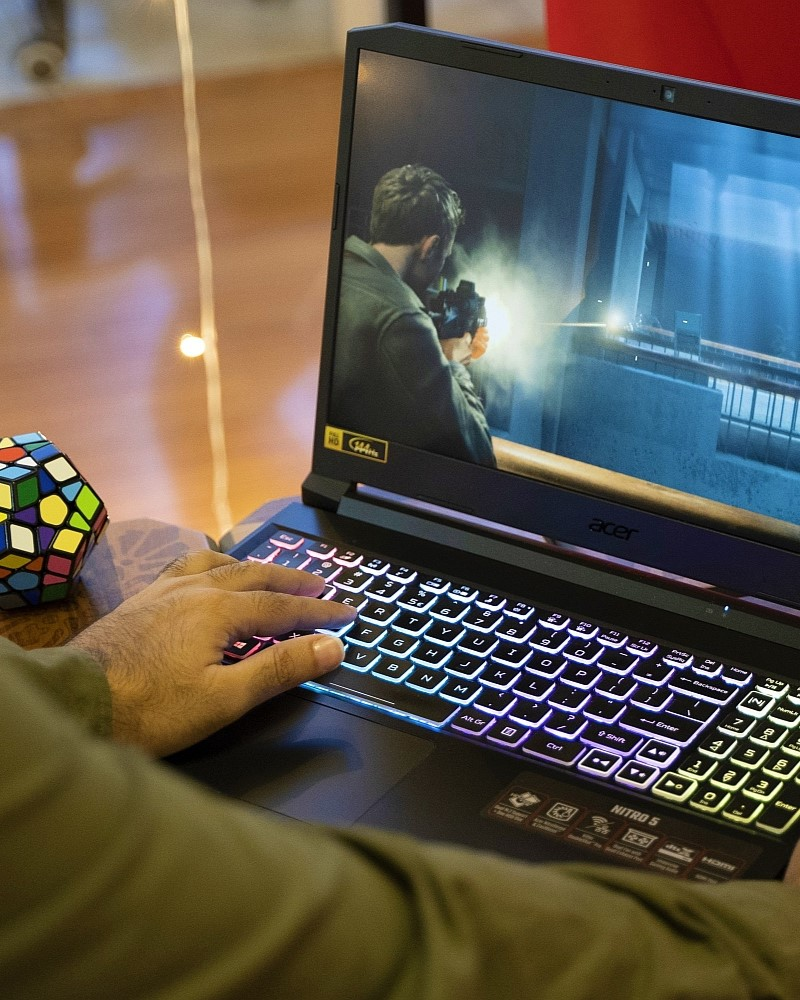
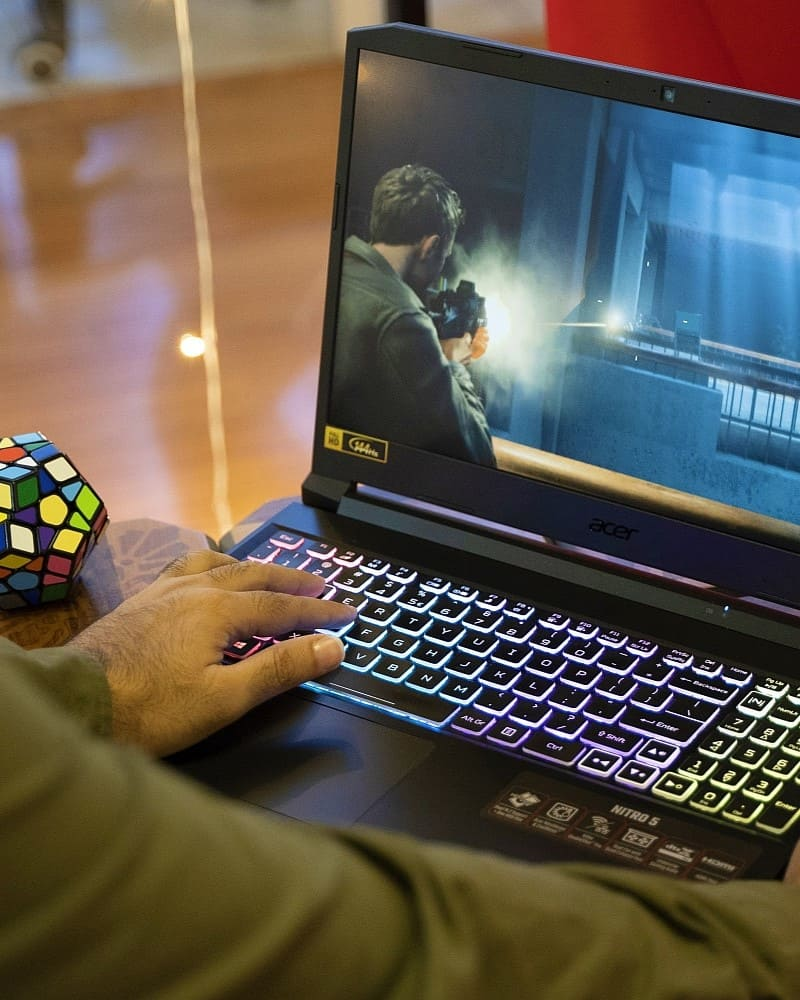
Se realizaron modificaciones en el index y se comprimieron las imagenes

diff --git a/index.html b/index.html
@@ -41,7 +41,16 @@
         </nav>
 
         <section class="primer_contenido">
-            <img src="./img/Nitro_Wallpaper_5000x2813.jpg" alt="Inicio">
+            <div class="imagen_principal_fondo">
+                <div class="contenido_header">
+                    <div class="titulo_principal" data-aos="fade-up" data-aos-duration="1000">
+                        <h1>Acer Nitro 5: </h1>
+                        <h2>Potencia sin límites.</h2>
+                        <p>Descubre el rendimiento excepcional y la experiencia de juego inmersiva que solo la Nitro 5 puede ofrecerte. ¡Domina tus desafíos con estilo! 🎮💥</p>
+                    </div>
+                    <img src="./img/Acer_Nitro_5.png" alt="laptop_acer_nitro_5" class="imagen_laptop" data-aos="fade-up" data-aos-duration="1000" data-aos-delay="100">
+                </div>
+            </div>
         </section>
     </header>
 
@@ -49,19 +58,19 @@
     <main>
         <!-- Productos nuevos -->
         <section class="novedades" >
-            <div class="contenido_tarjeta tarjeta_1" data-aos="fade-up" data-aos-duration="1000">
+            <div class="contenido_tarjeta tarjeta_1" data-aos-delay="700" data-aos="fade-up" data-aos-duration="1000" >
                 <article class="tarjeta">
                     <h2><span>Procesadores</span></h2>
                     <p>Con procesadores Intel Core i5 e i7 que son una familia de procesadores de computadora que ofrecen un rendimiento sólido y confiable para una amplia variedad de tareas.</p>
                 </article>
             </div>
-            <div class="contenido_tarjeta tarjeta_2" data-aos="fade-up" data-aos-duration="1500"">
+            <div class="contenido_tarjeta tarjeta_2" data-aos-delay="700" data-aos="fade-up" data-aos-duration="1500"">
                 <article class="tarjeta">
                     <h2><span>Graficos</span></h2>
                     <p>Las tarjetas gráficas NVIDIA RTX son una familia de tarjetas gráficas de alta gama que ofrecen un rendimiento excepcional para juegos y aplicaciones de productividad.</p>
                 </article>
             </div>
-            <div class="contenido_tarjeta tarjeta_3" data-aos="fade-up" data-aos-duration="2000"">
+            <div class="contenido_tarjeta tarjeta_3" data-aos-delay="700" data-aos="fade-up" data-aos-duration="2000"">
                 <article class="tarjeta">
                     <h2><span>Rendimiento</span></h2>
                     <p>Un rendimiento excepcional y una calidad de imagen impresionante en su ordenador, pantallas de alta resolución con una alta frecuencia de actualización, teclados retroiluminados, refrigeración avanzada, y mucho más!!..</p>
@@ -72,7 +81,7 @@
         <!-- Articulo principal -->
         <section class="articulo_principal">
             <img src="./img/Acer-Logo.png" alt="Imagen_de_referencia" data-aos="fade-right" data-aos-duration="1500"">
-            <article data-aos="fade-left" data-aos-duration="1500"">
+            <article data-aos="fade-up" data-aos-duration="1500"">
                 <h2>La marca líder en tecnología para trabajar, jugar y crear.</h2>
                 <p>Acer, la marca líder en tecnología, te ofrece la mejor experiencia en informática con sus productos de alta calidad y rendimiento. Desde laptops y computadoras de escritorio hasta monitores y accesorios, Acer tiene todo lo que necesitas para trabajar, jugar y crear. Con su innovadora tecnología y su compromiso con la excelencia, Acer es la elección perfecta para cualquier persona que busque lo mejor en informática. Descubre todo lo que Acer tiene para ofrecer y lleva tu experiencia informática al siguiente nivel.</p>
             </article>

diff --git a/scss/partials/_fondos.scss b/scss/partials/_fondos.scss
@@ -1,24 +1,14 @@
 $imagen_modelos:url(https://www.cnet.com/a/img/resize/8b4fabbc630942152fcff6e299f97e7197d70569/hub/2020/01/28/5284e5a2-1519-4d09-a07e-d50b317c954e/01-acer-nitro-5-an517-51-56yw.jpg?auto=webp&fit=crop&height=675&width=1200);
 $imagen_nosotros:url(https://upload.wikimedia.org/wikipedia/commons/4/47/Acer_Building_in_Oriental_Science_Park_right-front.jpg);
 $imagen_especificaciones:url(https://i.pinimg.com/564x/01/7b/97/017b97779f7e8ede3b8da9c8ec9e28ac.jpg);
+$fondo_nosotros:url(https://images.unsplash.com/photo-1477959858617-67f85cf4f1df?q=80&w=1000&auto=format&fit=crop&ixlib=rb-4.0.3&ixid=M3wxMjA3fDB8MHxleHBsb3JlLWZlZWR8MXx8fGVufDB8fHx8fA%3D%3D);
 $fondo_especificaciones:url(../img/acer-predator-abstract-uhdpaper.com-4K-33.jpg);
 $fondo_susbscribete:url(../img/colorful-dark-abstract-polygon-3d-4k-39.jpg);
-$fondo_nosotros:url(https://images.unsplash.com/photo-1477959858617-67f85cf4f1df?q=80&w=1000&auto=format&fit=crop&ixlib=rb-4.0.3&ixid=M3wxMjA3fDB8MHxleHBsb3JlLWZlZWR8MXx8fGVufDB8fHx8fA%3D%3D);
-
-// $fondo_tarjeta: (
-
-//     url(../../img/card_images/intel.jpg),
-//     url(../../img/card_images/nvidia.jpg), 
-//     url(../../img/card_images/Acer_Nitro_5_lead.jpg)
-
-// );
+$fondo_header:url(../../img/black-red-abstract-polygon-3d-4k-45.jpg);
+$imagen_laptop:url(../../img/Acer_Nitro_5.png);
 
 $fondo_tarjeta: (
-
-    url(./intel.jpg),
-    url(./nvidia.jpg), 
-    url(./Acer_Nitro_5_lead.jpg)
-
+    url(../../img/card_images/intel.jpg),
+    url(../../img/card_images/nvidia.jpg), 
+    url(../../img/card_images/Acer_Nitro_5_lead.jpg)
 );
-
-

diff --git a/scss/styles.scss b/scss/styles.scss
@@ -114,14 +114,58 @@ header {
 }
 
 /* Sección principal */
-.primer_contenido img {
-    margin-top: 50px;
+
+.primer_contenido {
     width: 100%;
     height: 70vh;
-    background-position: center;
-    background-repeat: no-repeat;
-    background-size: cover;
-} /* Fin del header*/
+    margin-top: 50px;
+
+    .imagen_principal_fondo {
+        width: 100%;
+        height: 70vh;
+        background: $fondo_header;
+        background-size: cover;
+        background-position: center;
+        
+        
+        .contenido_header{
+            width: 100%;
+            padding: 3% 5%;
+            display: flex;
+            justify-content: center;
+            align-items: center;
+            gap: 5%;
+            filter: drop-shadow(0 0 90px rgb(0, 0, 0));
+            text-shadow: 0 0 20px rgb(0, 0, 0);
+
+            .titulo_principal {
+                width: 50%;
+                padding: 0;
+
+                h1 {
+                    font-weight: bolder;
+                    font-size: 80px;
+                }
+
+                h2 {
+                    font-weight: light;
+                    font-size: 36px;
+                }
+
+                p {
+                    font-size: 20px;
+                }
+            }
+
+            .imagen_laptop {
+                width: 50%;
+            }
+        }
+    }
+}
+
+
+/* Fin del header*/
 
 /* Productos nuevos */
 

diff --git a/css/styles.css b/css/styles.css
@@ -92,14 +92,48 @@ header {
 }
 
 /* Sección principal */
-.primer_contenido img {
-  margin-top: 50px;
+.primer_contenido {
   width: 100%;
   height: 70vh;
-  background-position: center;
-  background-repeat: no-repeat;
+  margin-top: 50px;
+}
+.primer_contenido .imagen_principal_fondo {
+  width: 100%;
+  height: 70vh;
+  background: url(../../img/black-red-abstract-polygon-3d-4k-45.jpg);
   background-size: cover;
-} /* Fin del header*/
+  background-position: center;
+}
+.primer_contenido .imagen_principal_fondo .contenido_header {
+  width: 100%;
+  padding: 3% 5%;
+  display: flex;
+  justify-content: center;
+  align-items: center;
+  gap: 5%;
+  filter: drop-shadow(0 0 90px rgb(0, 0, 0));
+  text-shadow: 0 0 20px rgb(0, 0, 0);
+}
+.primer_contenido .imagen_principal_fondo .contenido_header .titulo_principal {
+  width: 50%;
+  padding: 0;
+}
+.primer_contenido .imagen_principal_fondo .contenido_header .titulo_principal h1 {
+  font-weight: bolder;
+  font-size: 80px;
+}
+.primer_contenido .imagen_principal_fondo .contenido_header .titulo_principal h2 {
+  font-weight: light;
+  font-size: 36px;
+}
+.primer_contenido .imagen_principal_fondo .contenido_header .titulo_principal p {
+  font-size: 20px;
+}
+.primer_contenido .imagen_principal_fondo .contenido_header .imagen_laptop {
+  width: 50%;
+}
+
+/* Fin del header*/
 /* Productos nuevos */
 /* Tarjetas */
 .novedades {
